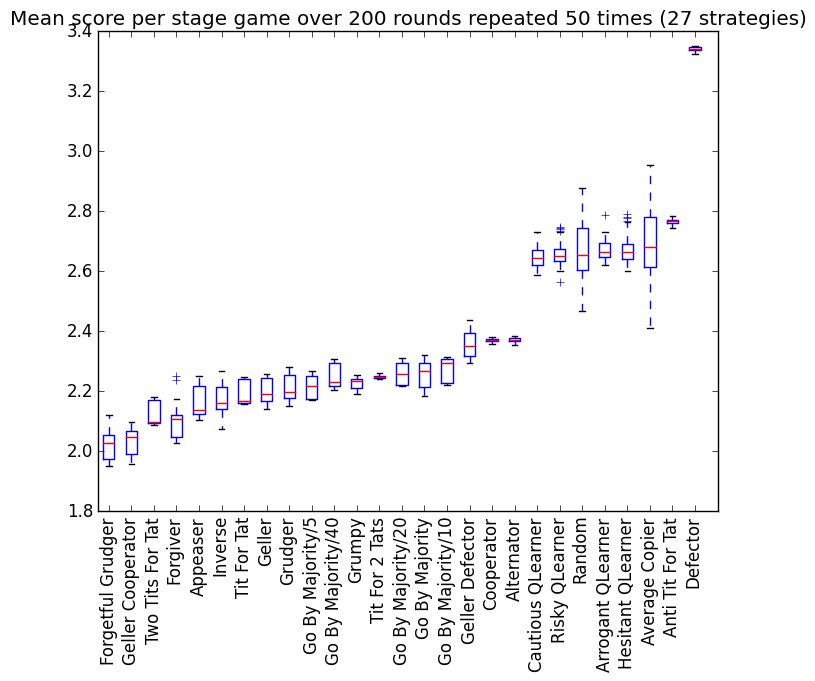
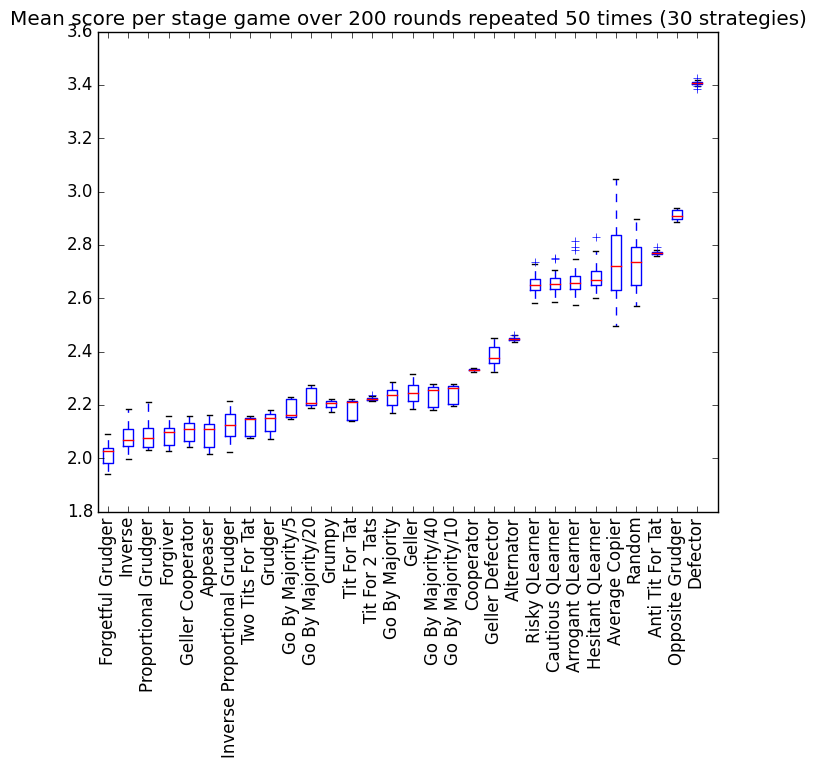
Adding 3 new strategies, proportinal grudger, inverse proportional grudger, and opposite grudger

diff --git a/axelrod/tests/test_inverseproportionalgudger.py b/axelrod/tests/test_inverseproportionalgudger.py
@@ -1,0 +1,107 @@
+"""
+Test for the inverse proportional grudger strategy
+"""
+import unittest
+import axelrod
+import random
+
+class TestInverseProportionalGrudger(unittest.TestCase):
+
+    def test_init(self):
+        """
+        Tests for the __init__ method
+        """
+        P1 = axelrod.InverseProportionalGrudger()
+        self.assertEqual(P1.history, [])
+        self.assertEqual(P1.score, 0)
+        self.assertEqual(P1.mem_length, 1)
+        self.assertEqual(P1.grudged, False)
+        self.assertEqual(P1.grudge_memory, 1)
+
+
+    def test_strategy(self):
+        """
+        Starts by cooperating
+        """
+
+        random.seed(4)
+
+        P1 = axelrod.InverseProportionalGrudger()
+        P2 = axelrod.Player()
+        P2.history = ['C', 'C', 'D', 'D', 'D', 'C']
+
+        self.assertEqual(P1.mem_length, 1)
+        self.assertEqual(P1.grudged, False)
+
+        # Starts by playing C
+        self.assertEqual(P1.strategy(P2), 'C')
+        self.assertEqual(P1.grudged, False)
+        P2.history.append('C')
+
+        self.assertEqual(P1.strategy(P2), 'C')
+        self.assertEqual(P1.grudged, False)
+        P2.history.append('D')
+
+        self.assertEqual(P2.history, ['C', 'C', 'D', 'D', 'D', 'C', 'C', 'D'])
+        self.assertEqual(P1.strategy(P2), 'D')
+        self.assertEqual(P1.grudged, True)
+
+        for turn in range(P1.mem_length-1):
+            self.assertEqual(P1.mem_length, 10)
+            self.assertEqual(P1.strategy(P2), 'D')
+            # Doesn't matter what opponent plays now
+            P2.history.append(random.choice(['C', 'D']))
+            self.assertEqual(P1.grudged, True)
+
+        self.assertEqual(P1.strategy(P2), 'D')
+        self.assertEqual(P1.grudged, True)
+        P2.history.append('C')
+
+        # Back to being not grudged
+        self.assertEqual(P1.strategy(P2), 'C')
+        self.assertEqual(P1.grudged, False)
+        P2.history.append('C')
+
+        self.assertEqual(P1.strategy(P2), 'C')
+        self.assertEqual(P1.grudged, False)
+        P2.history.append('D')
+
+        # Now grudges again
+        self.assertEqual(P1.strategy(P2), 'D')
+        self.assertEqual(P1.mem_length, 12)
+        self.assertEqual(P1.grudged, True)
+        P2.history.append('C')
+
+        for turn in range(P1.mem_length-1):
+            self.assertEqual(P1.mem_length, 12)
+            self.assertEqual(P1.strategy(P2), 'D')
+            # Doesn't matter what opponent plays now
+            P2.history.append(random.choice(['C', 'D']))
+            self.assertEqual(P1.grudged, True)
+
+        self.assertEqual(P1.strategy(P2), 'D')
+        self.assertEqual(P1.grudged, True)
+        P2.history.append('C')
+
+        # Back to being not grudged
+        self.assertEqual(P1.strategy(P2), 'C')
+        self.assertEqual(P1.grudged, False)
+        P2.history.append('C')
+
+    def test_representation(self):
+        P1 = axelrod.InverseProportionalGrudger()
+        self.assertEqual(str(P1), 'Inverse Proportional Grudger')
+
+
+    def test_reset_method(self):
+        """
+        tests the reset method
+        """
+        P1 = axelrod.InverseProportionalGrudger()
+        P1.history = ['C', 'D', 'D', 'D']
+        P1.grudged = True
+        P1.grudge_memory = 4
+        P1.reset()
+        self.assertEqual(P1.history, [])
+        self.assertEqual(P1.grudged, False)
+        self.assertEqual(P1.grudge_memory, 0)

diff --git a/axelrod/tests/test_proportionalgrudger.py b/axelrod/tests/test_proportionalgrudger.py
@@ -1,0 +1,106 @@
+"""
+Test for the proportinal grudger strategy
+"""
+import unittest
+import axelrod
+import random
+
+class TestProportionalGrudger(unittest.TestCase):
+
+    def test_init(self):
+        """
+        Tests for the __init__ method
+        """
+        P1 = axelrod.ProportionalGrudger()
+        self.assertEqual(P1.history, [])
+        self.assertEqual(P1.score, 0)
+        self.assertEqual(P1.mem_length, 1)
+        self.assertEqual(P1.grudged, False)
+        self.assertEqual(P1.grudge_memory, 1)
+
+    def test_strategy(self):
+        """
+        Starts by cooperating
+        """
+
+        random.seed(4)
+
+        P1 = axelrod.ProportionalGrudger()
+        P2 = axelrod.Player()
+        P2.history = ['C', 'C', 'D', 'D', 'D', 'C']
+
+        self.assertEqual(P1.mem_length, 1)
+        self.assertEqual(P1.grudged, False)
+
+        # Starts by playing C
+        self.assertEqual(P1.strategy(P2), 'C')
+        self.assertEqual(P1.grudged, False)
+        P2.history.append('C')
+
+        self.assertEqual(P1.strategy(P2), 'C')
+        self.assertEqual(P1.grudged, False)
+        P2.history.append('D')
+
+        self.assertEqual(P2.history, ['C', 'C', 'D', 'D', 'D', 'C', 'C', 'D'])
+        self.assertEqual(P1.strategy(P2), 'D')
+        self.assertEqual(P1.grudged, True)
+
+        for turn in range(P1.mem_length-1):
+            self.assertEqual(P1.mem_length, 10)
+            self.assertEqual(P1.strategy(P2), 'D')
+            # Doesn't matter what opponent plays now
+            P2.history.append(random.choice(['C', 'D']))
+            self.assertEqual(P1.grudged, True)
+
+        self.assertEqual(P1.strategy(P2), 'D')
+        self.assertEqual(P1.grudged, True)
+        P2.history.append('C')
+
+        # Back to being not grudged
+        self.assertEqual(P1.strategy(P2), 'C')
+        self.assertEqual(P1.grudged, False)
+        P2.history.append('C')
+
+        self.assertEqual(P1.strategy(P2), 'C')
+        self.assertEqual(P1.grudged, False)
+        P2.history.append('D')
+
+        # Now grudges again
+        self.assertEqual(P1.strategy(P2), 'D')
+        self.assertEqual(P1.mem_length, 8)
+        self.assertEqual(P1.grudged, True)
+        P2.history.append('C')
+
+        for turn in range(P1.mem_length-1):
+            self.assertEqual(P1.mem_length, 8)
+            self.assertEqual(P1.strategy(P2), 'D')
+            # Doesn't matter what opponent plays now
+            P2.history.append(random.choice(['C', 'D']))
+            self.assertEqual(P1.grudged, True)
+
+        self.assertEqual(P1.strategy(P2), 'D')
+        self.assertEqual(P1.grudged, True)
+        P2.history.append('C')
+
+        # Back to being not grudged
+        self.assertEqual(P1.strategy(P2), 'C')
+        self.assertEqual(P1.grudged, False)
+        P2.history.append('C')
+
+    def test_representation(self):
+        P1 = axelrod.ProportionalGrudger()
+        self.assertEqual(str(P1), 'Proportional Grudger')
+
+
+    def test_reset_method(self):
+        """
+        tests the reset method
+        """
+        P1 = axelrod.ProportionalGrudger()
+        P1.history = ['C', 'D', 'D', 'D']
+        P1.grudged = True
+        P1.grudge_memory = 4
+        P1.reset()
+        self.assertEqual(P1.history, [])
+        self.assertEqual(P1.grudged, False)
+        self.assertEqual(P1.grudge_memory, 0)

diff --git a/axelrod/strategies/inverseproportionalgrudger.py b/axelrod/strategies/inverseproportionalgrudger.py
@@ -1,0 +1,53 @@
+from axelrod import Player
+
+class InverseProportionalGrudger(Player):
+    """
+    A player starts by cooperating however will defect if at any point the opponent has defected,
+    but forgets after meme_length matches, with 1<=mem_length<=20 proportional to the amount
+    of time the opponent has played 'C'
+    """
+
+    def __init__(self):
+        """
+        Initialised the player
+        """
+        self.history = []
+        self.score = 0
+        self.mem_length = 1
+        self.grudged = False
+        self.grudge_memory = 1
+
+    def strategy(self, opponent):
+        """
+        Begins by playing C, then plays D for an amount of rounds proportional to the opponents historical '%' of playing 'C' if the opponent ever plays D
+        """
+
+        if self.grudge_memory >= self.mem_length:
+            self.grudge_memory = 0
+            self.grudged = False
+
+        if self.grudged:
+            self.grudge_memory += 1
+            return 'D'
+        elif 'D' in opponent.history[-1:]:
+            self.mem_length = ((sum([i == 'C' for i in opponent.history]))*20)/len(opponent.history)
+            if self.mem_length == 0:
+                self.mem_length += 1
+            self.grudged = True
+            return 'D'
+        return 'C'
+
+    def reset(self):
+        """
+        Resets scores and history
+        """
+        self.history = []
+        self.grudged = False
+        self.grudge_memory = 0
+        self.mem_length = 1
+
+    def __repr__(self):
+        """
+        The string method for the strategy.
+        """
+        return 'Inverse Proportional Grudger'

diff --git a/axelrod/strategies/proportionalgrudger.py b/axelrod/strategies/proportionalgrudger.py
@@ -1,0 +1,51 @@
+from axelrod import Player
+
+class ProportionalGrudger(Player):
+    """
+    A player starts by cooperating however will defect if at any point the opponent has defected,
+    but forgets after meme_length matches, with 1<=mem_length<=20 proportional to the amount
+    of time the opponent has played 'D'
+    """
+
+    def __init__(self):
+        """
+        Initialised the player
+        """
+        self.history = []
+        self.score = 0
+        self.mem_length = 1
+        self.grudged = False
+        self.grudge_memory = 1
+
+    def strategy(self, opponent):
+        """
+        Begins by playing C, then plays D for an amount of rounds proportional to the opponents historical '%' of playing 'D' if the opponent ever plays D
+        """
+
+        if self.grudge_memory >= self.mem_length:
+            self.grudge_memory = 0
+            self.grudged = False
+
+        if self.grudged:
+            self.grudge_memory += 1
+            return 'D'
+        elif 'D' in opponent.history[-1:]:
+            self.mem_length = (sum([i == 'D' for i in opponent.history])*20)/len(opponent.history)
+            self.grudged = True
+            return 'D'
+        return 'C'
+
+    def reset(self):
+        """
+        Resets scores and history
+        """
+        self.history = []
+        self.grudged = False
+        self.grudge_memory = 0
+        self.mem_length = 1
+
+    def __repr__(self):
+        """
+        The string method for the strategy.
+        """
+        return 'Proportional Grudger'

diff --git a/axelrod/tests/test_oppositegrudger.py b/axelrod/tests/test_oppositegrudger.py
@@ -1,0 +1,32 @@
+"""
+Test for the opposite grudger strategy
+"""
+import unittest
+import axelrod
+
+class TestOppositeGrudger(unittest.TestCase):
+
+    def test_initial_strategy(self):
+        """
+        Starts by cooperating
+        """
+        P1 = axelrod.OppositeGrudger()
+        P2 = axelrod.Player()
+        self.assertEqual(P1.strategy(P2), 'D')
+
+    def test_effect_of_strategy(self):
+        """
+        If opponent cooperates at any point then the player will cooperate forever
+        """
+        P1 = axelrod.OppositeGrudger()
+        P2 = axelrod.Player()
+        P1.history = ['C', 'D', 'D', 'D']
+        P2.history = ['D', 'D', 'D', 'D']
+        self.assertEqual(P1.strategy(P2), 'D')
+        P1.history = ['C', 'C', 'D', 'D', 'D']
+        P2.history = ['C', 'D', 'C', 'C', 'C']
+        self.assertEqual(P1.strategy(P2), 'C')
+
+    def test_representation(self):
+        P1 = axelrod.OppositeGrudger()
+        self.assertEqual(str(P1), 'Opposite Grudger')

diff --git a/axelrod/strategies/__init__.py b/axelrod/strategies/__init__.py
@@ -14,6 +14,9 @@ from inverse import *
 from appeaser import *
 from forgiver import *
 from forgetfulgrudger import *
+from proportionalgrudger import *
+from inverseproportionalgrudger import *
+from oppositegrudger import *
 
 strategies = [
         Defector,
@@ -39,7 +42,10 @@ strategies = [
         ArrogantQLearner,
         HesitantQLearner,
         CautiousQLearner,
-        ForgetfulGrudger
+        ForgetfulGrudger,
+        ProportionalGrudger,
+        InverseProportionalGrudger,
+        OppositeGrudger
         ]
 
 #These are strategies that do not follow the rules of Axelrods tournement.

diff --git a/axelrod/strategies/oppositegrudger.py b/axelrod/strategies/oppositegrudger.py
@@ -1,0 +1,19 @@
+from axelrod import Player
+
+class OppositeGrudger(Player):
+    """
+    A player starts by cooperating however will defect if at any point the opponent has defected
+    """
+    def strategy(self, opponent):
+        """
+        Begins by playing D, then plays C for the remaining rounds if the opponent ever plays C
+        """
+        if 'C' in opponent.history:
+            return 'C'
+        return 'D'
+
+    def __repr__(self):
+        """
+        The string method for the strategy.
+        """
+        return 'Opposite Grudger'
